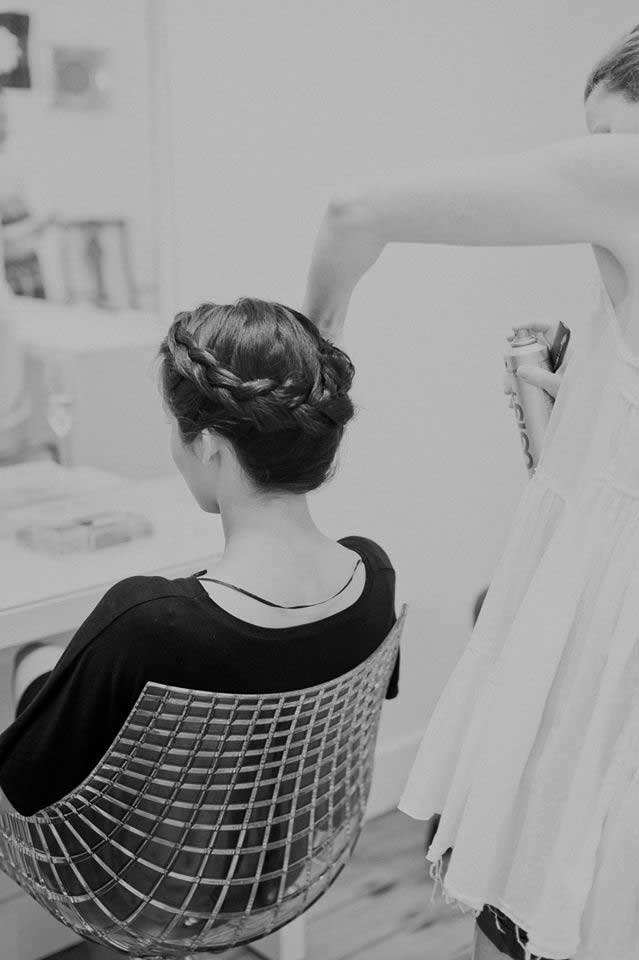
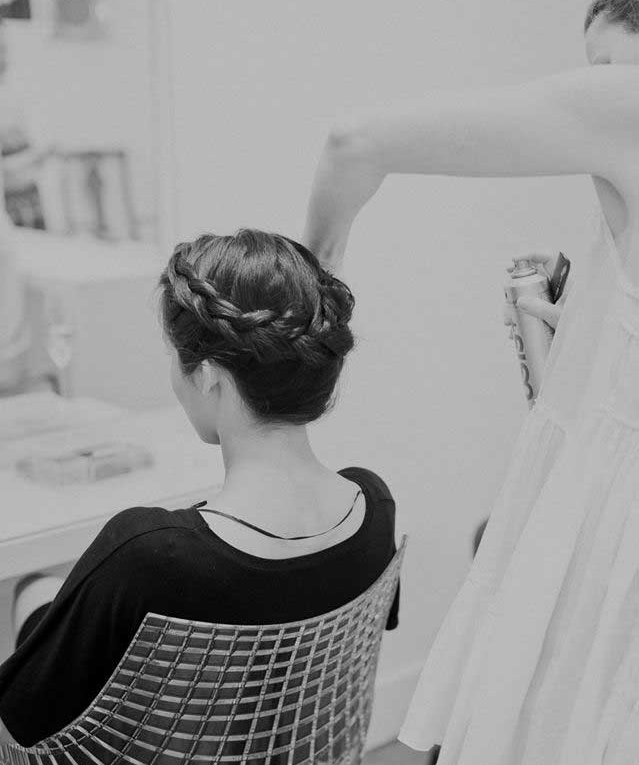
Updated web section

diff --git a/index.html b/index.html
@@ -151,13 +151,13 @@
                     <h2 class="section-heading">Colors</h2>
                         <h3><span class="sub-heading">Our rainbow</span></h3>
                         <div id="color1"></div>
-                        <p style="color:#3d223d;margin-top:5px;">HEX: #3d223d <br>RGB: 61/34/61</p>
+                        <p style="color:#3d223d;margin-top:5px;font-size:15px;">HEX: #3d223d <br>RGB: 61/34/61</p>
                         <div id="color2"></div>
-                        <p style="color:#9e809c;margin-top:5px;">HEX: #9e809c <br>RGB: 158/128/156</p>
+                        <p style="color:#9e809c;margin-top:5px;font-size:15px;">HEX: #9e809c <br>RGB: 158/128/156</p>
                         <div id="color3"></div>
-                        <p style="color:#82b36d;margin-top:5px;">HEX: #82b36d <br>RGB: 130/179/109</p>
+                        <p style="color:#82b36d;margin-top:5px;font-size:15px;">HEX: #82b36d <br>RGB: 130/179/109</p>
                         <div id="color4"></div>
-                        <p style="color:#5c5c5b;margin-top:5px;">HEX: #5c5c5b <br>RGB: 92/92/91</p>
+                        <p style="color:#5c5c5b;margin-top:5px;font-size:15px;">HEX: #5c5c5b <br>RGB: 92/92/91</p>
                         <a href="https://kuler.adobe.com/NRH-Style-Guide-color-theme-4081558/" target="_blank"><button type="button" class="btn btn-default center">Get our colors  <i class="fa fa-arrow-circle-right"></i></button></a>
                 </div>
                 <div class="col-lg-5 col-lg-offset-2 col-sm-6">
@@ -182,9 +182,18 @@
                     <h2 class="section-heading">Web</h2>
                         <h3><span class="sub-heading">Push my buttons</span></h3>
                     <p class="lead">Text goes here.</p>
+                    <button type="button" class="btn btn-default btn-lg center default1 hidden-xs" id="default">Primary</button>
+                    <button type="button" class="btn btn-default btn-lg center hover1 hidden-xs">Hover Effect</button>
+                    <button type="button" class="btn btn-default center hover1 visible-xs">Primary</button><br>
+                    <p class="lead">Text goes here.</p>
+                    <button type="button" class="btn btn-default btn-lg center default2 hidden-xs" id="default">Secondary</button>
+                    <button type="button" class="btn btn-default btn-lg center hover2 hidden-xs">Hover Effect</button><button type="button" class="btn btn-default center hover2 visible-xs">Secondary</button><br>
+                    <p class="lead">Text goes here.</p>
+                    <button type="button" class="btn btn-default btn-lg center default3 hidden-xs" id="default">Inverted</button>
+                    <button type="button" class="btn btn-default btn-lg center hover3 hidden-xs">Hover Effect</button><button type="button" class="btn btn-default center hover3 visible-xs">Inverted</button><br>
                 </div>
                 <div class="col-lg-5 col-sm-pull-6  col-sm-6">
-                    <img class="img-responsive hidden-xs" src="img/photo3.jpg" alt="">
+                    <img class="img-responsive hidden-xs" id="photo" src="img/photo3.jpg" alt="">
                 </div>
             </div>
 
@@ -245,7 +254,7 @@
                         <li><a href="#colors">Colors</a>
                         </li>
                         <li class="footer-menu-divider">&sdot;</li>
-                        <li><a href="#buttons">Buttons</a>
+                        <li><a href="#buttons">Web</a>
                         </li>
                     </ul>
                     <p class="copyright text-muted small" id="footertext">Copyright &copy; Natasha Radonich Hairdressing 2014. All Rights Reserved</p>

diff --git a/css/main.css b/css/main.css
@@ -307,3 +307,47 @@ img {
 	width: 80%;
 	border-radius: 10px;
 }
+
+#photo {
+	margin-bottom: 20px;
+}
+
+#default {
+	margin-right: 30px;
+
+}
+
+.btn-lg, .btn-default {
+	width: 150px;
+	font-family: 'Roboto Slab', serif;
+	font-weight: 400;
+	margin-top: 10px;
+}
+
+.default1:hover {
+	border-color: #3D223D;
+}
+
+.default2, .default2:hover {
+	border-color: #3D223D;
+}
+
+.hover2:hover {
+	border-color: #9E809C;
+	color: #9E809C;
+}
+
+.default3, .default3:hover {
+	border-color: #82B36D;
+	color: #82B36D;
+}
+
+.hover3 {
+	border-color: #82B36D;
+	color: #82B36D;
+}
+
+.hover3:hover {
+	border-color: #3D223D;
+	color: #3D223D;
+}
